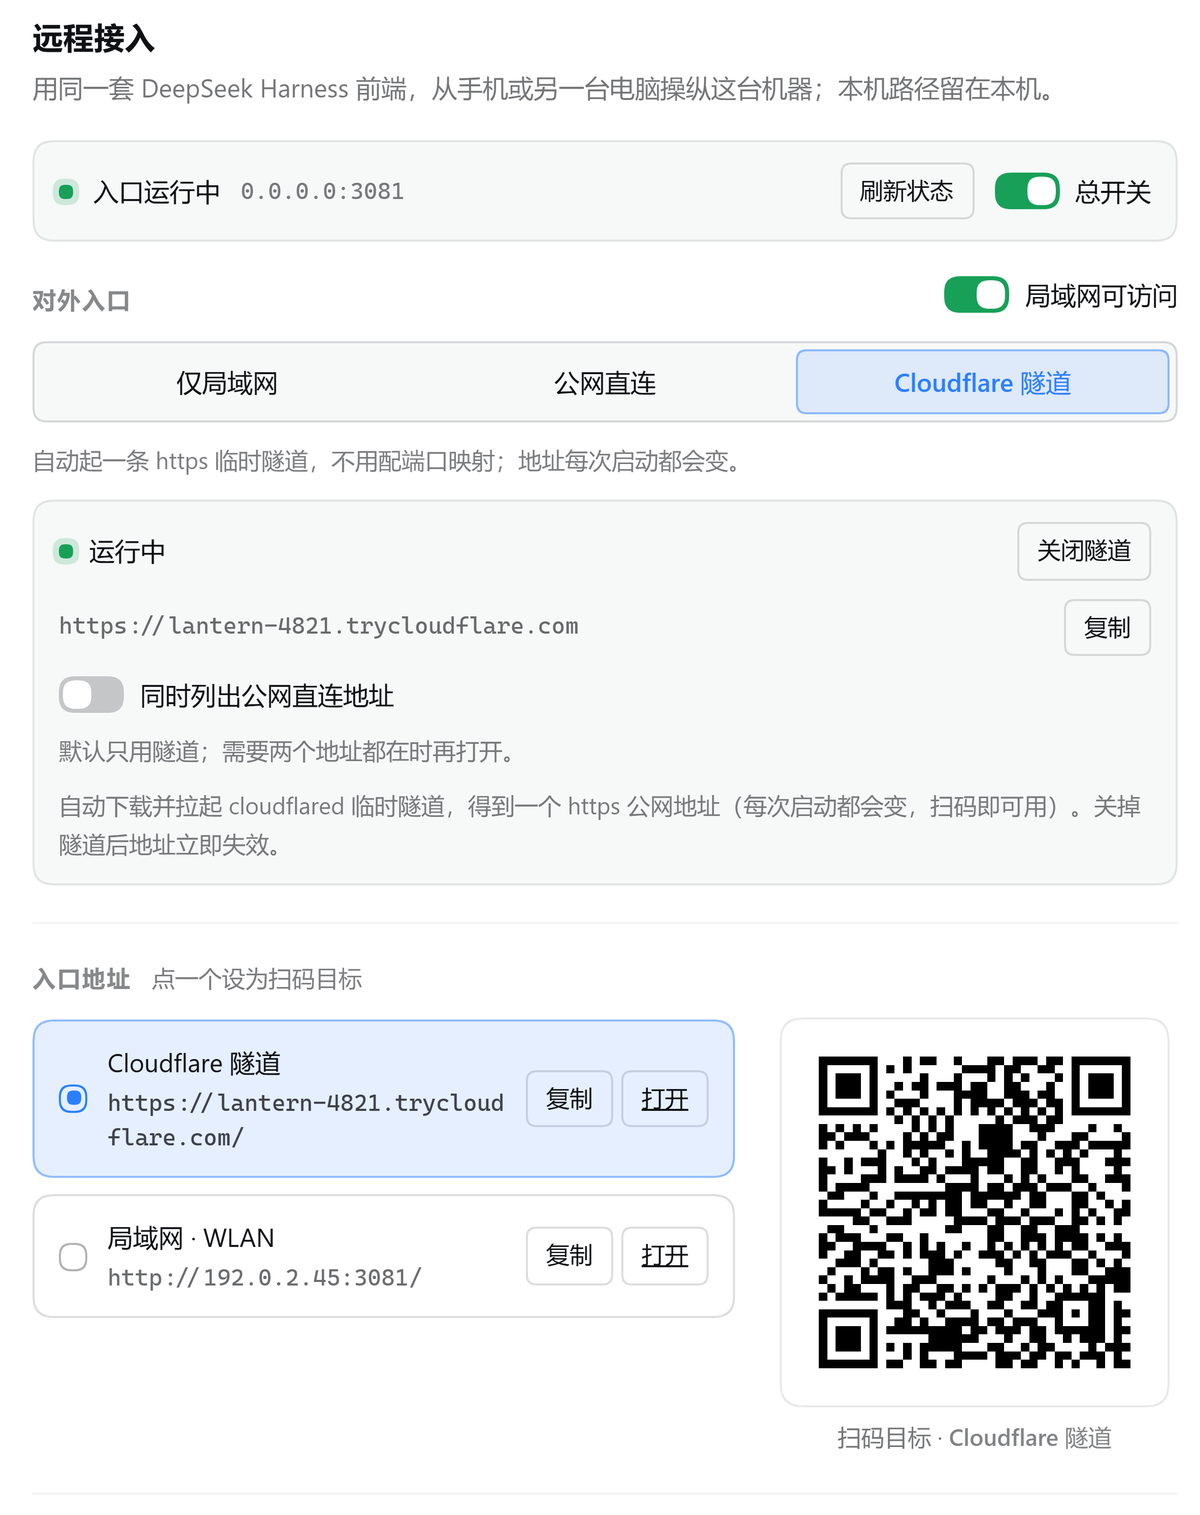
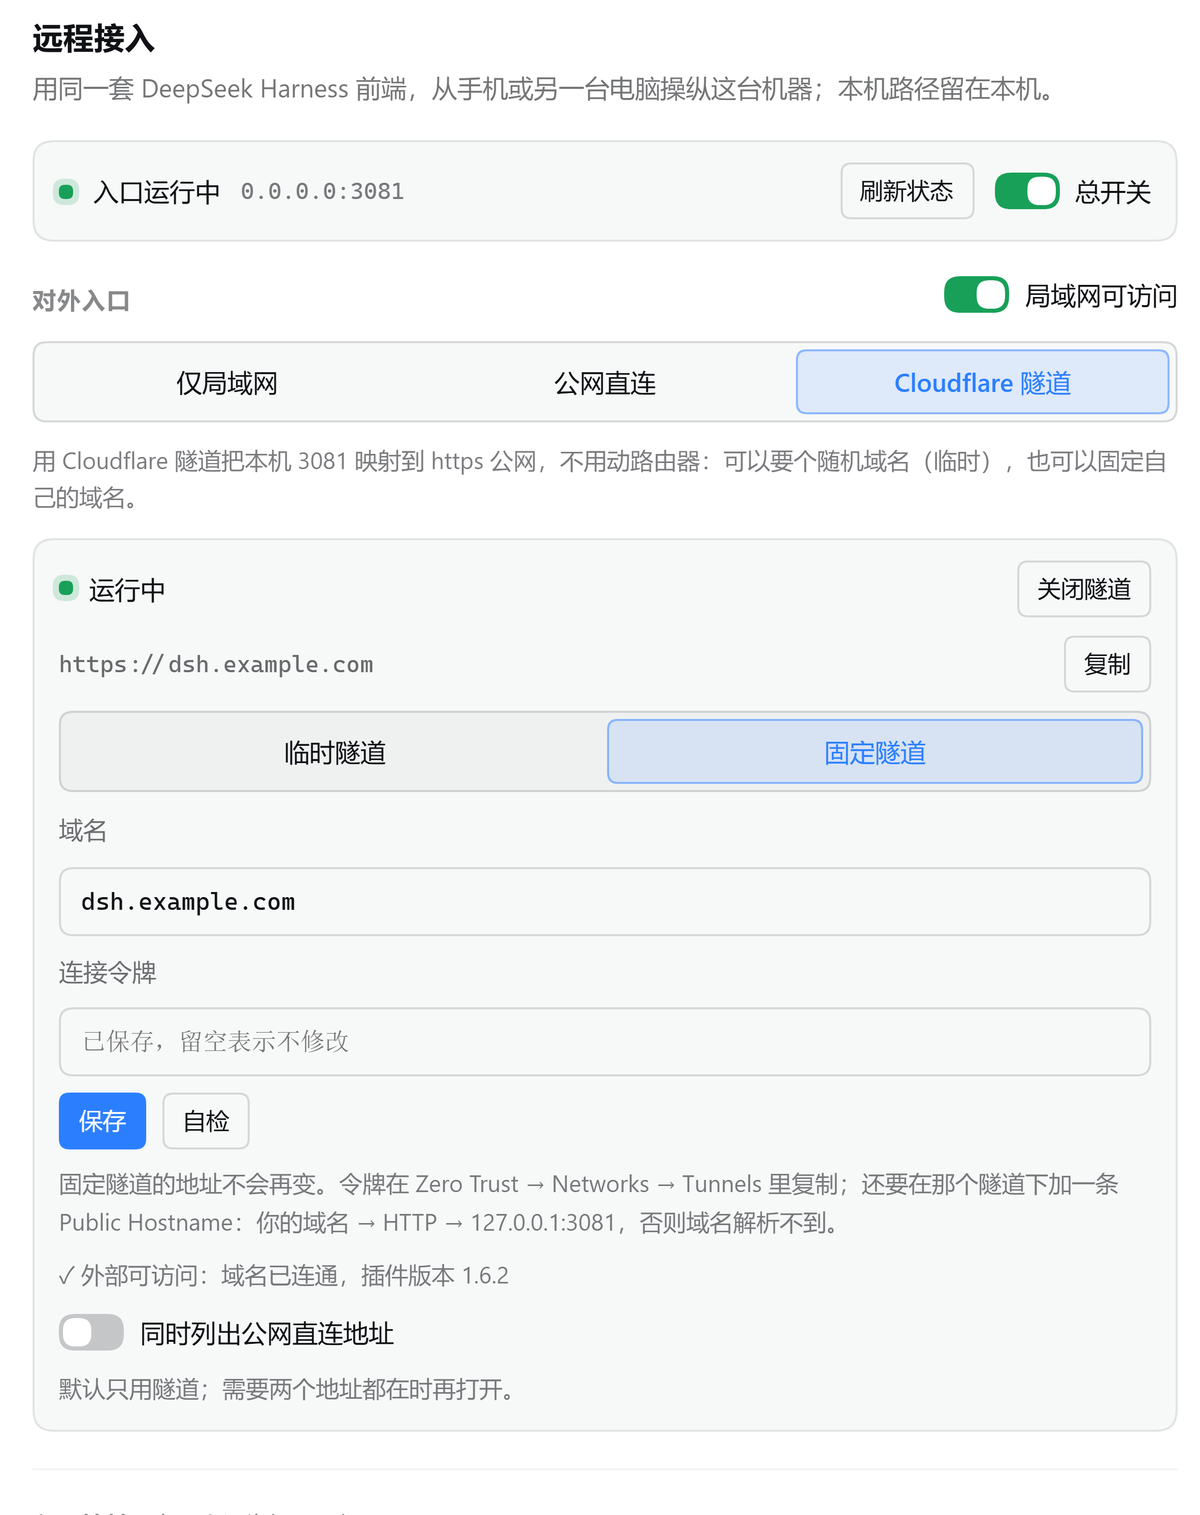
docs(shots): 更新为固定隧道 + 自检的真实面板，并去掉一切真实地址
- 四张图重拍：固定隧道（暗/亮）、公网直连、手机窄屏，均含「自检」与固定域名
- make-shots 增加通用域名打码：任何真实域名都替换成 dsh.example.com，文档域名与示例域名保留；新增 --check 让截图里带上自检结果
- 顺手清掉测试夹具里的真实域名、内网 IP 与令牌前缀，二维码参考矩阵按 75 字节 token URL 重新快照（说明里写清来源）
- 测试 95

diff --git a/client.js b/client.js
@@ -66,6 +66,7 @@ window.__ModuleLoader__.load({
       tunnelHostRequired: '先在下面的「域名」里填上你的域名，再切到固定隧道。',
       tunnelTokenLabel: '连接令牌',
       tunnelTokenKept: '已保存，留空表示不修改',
+      tunnelTokenPlaceholder: '粘贴连接令牌',
       tunnelSavedNamed: '固定隧道已保存，进程正在重启。',
       tunnelModeSwitch: '切换模式会重开隧道进程，当前临时地址立即失效。',
       tunnelCheck: '自检',
@@ -154,6 +155,7 @@ window.__ModuleLoader__.load({
       tunnelHostRequired: 'Fill in your hostname first, then switch to the fixed tunnel.',
       tunnelTokenLabel: 'Tunnel token',
       tunnelTokenKept: 'already saved — leave empty to keep it',
+      tunnelTokenPlaceholder: 'paste the tunnel token',
       tunnelSavedNamed: 'Fixed tunnel saved; the process is restarting.',
       tunnelModeSwitch: 'Switching restarts the tunnel process and drops the current quick address.',
       tunnelCheck: 'Check',
@@ -838,7 +840,7 @@ window.__ModuleLoader__.load({
                         type: 'password',
                         value: namedToken,
                         autoComplete: 'off',
-                        placeholder: tunnelState.hasToken ? t('tunnelTokenKept') : 'eyJhIjoi…',
+                        placeholder: tunnelState.hasToken ? t('tunnelTokenKept') : t('tunnelTokenPlaceholder'),
                         spellCheck: false,
                         onChange: (event) => {
                           setNamedTouched(true)
